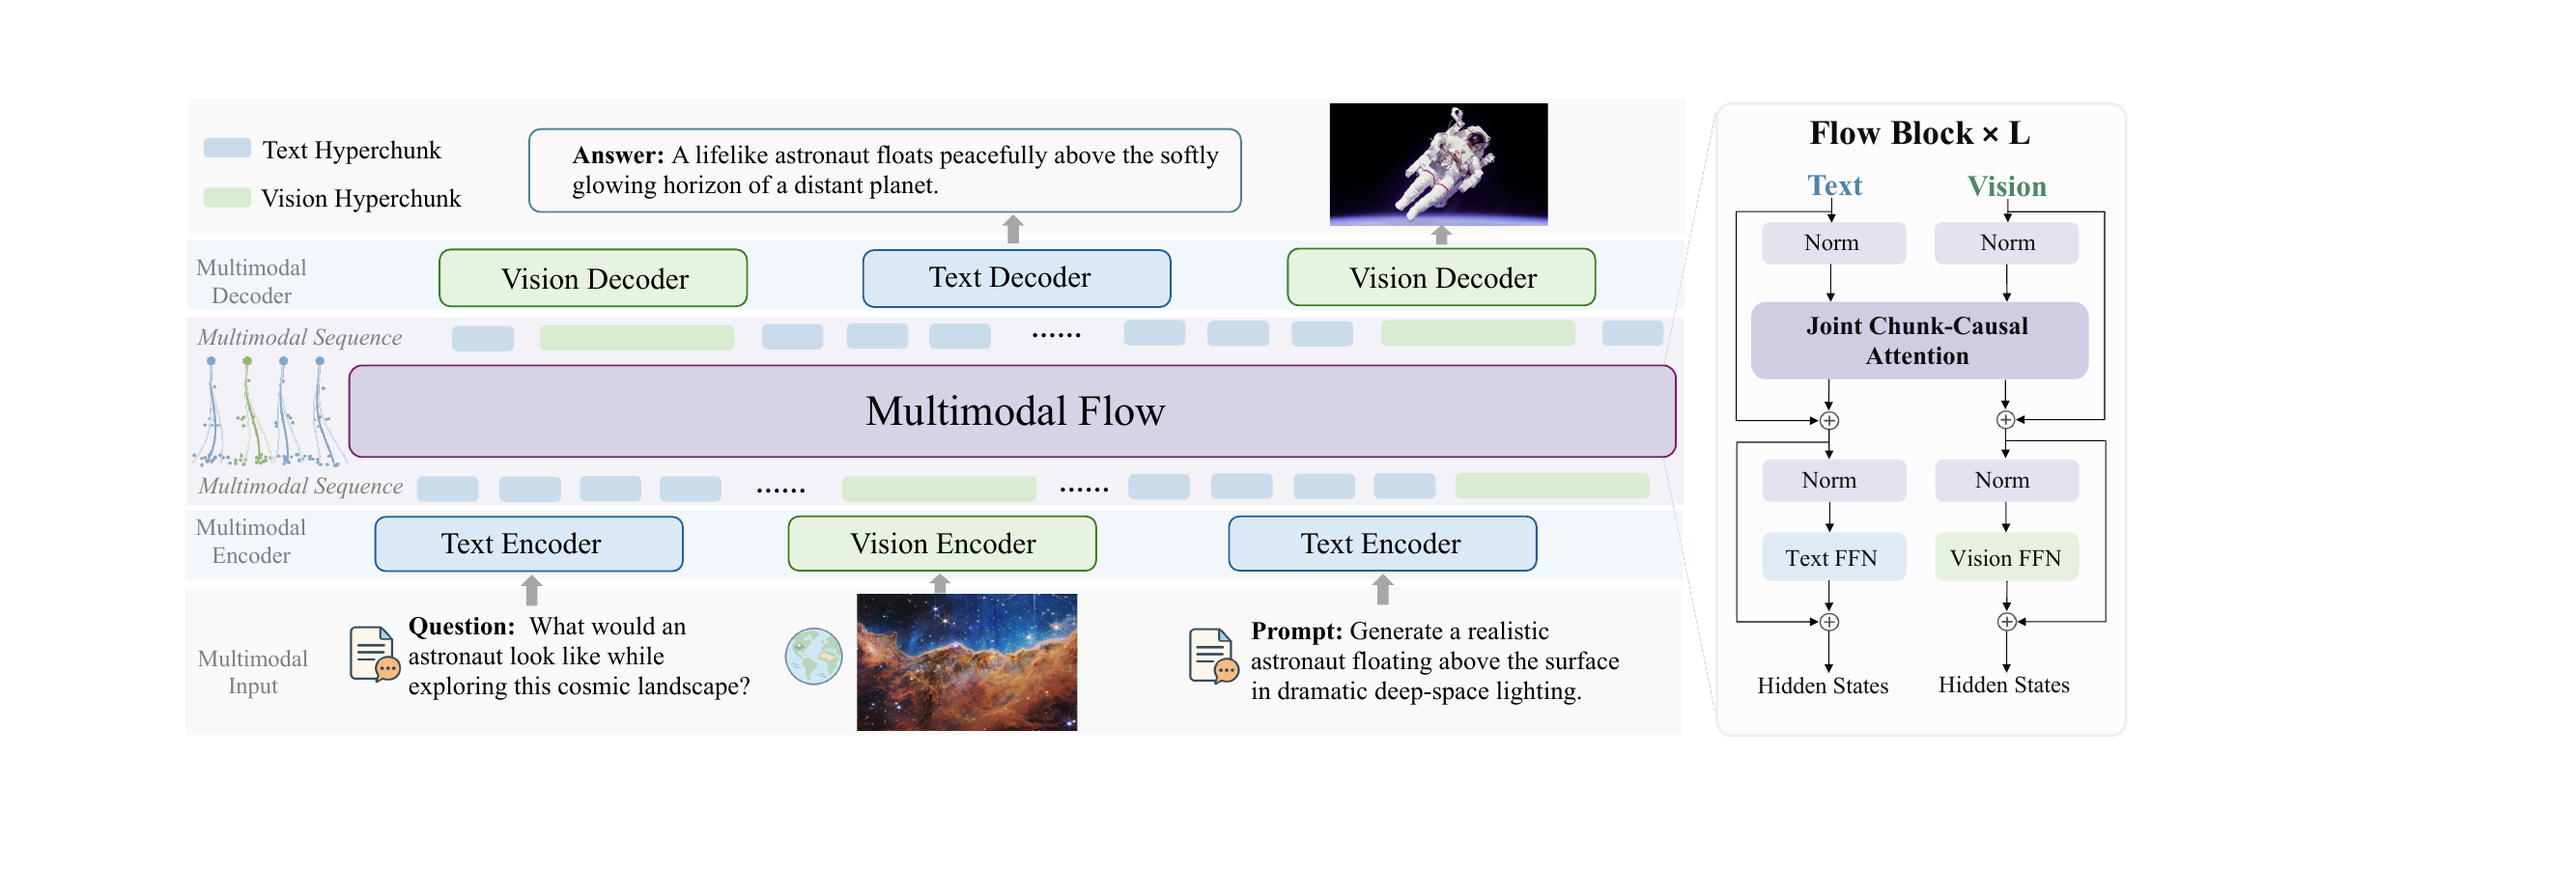
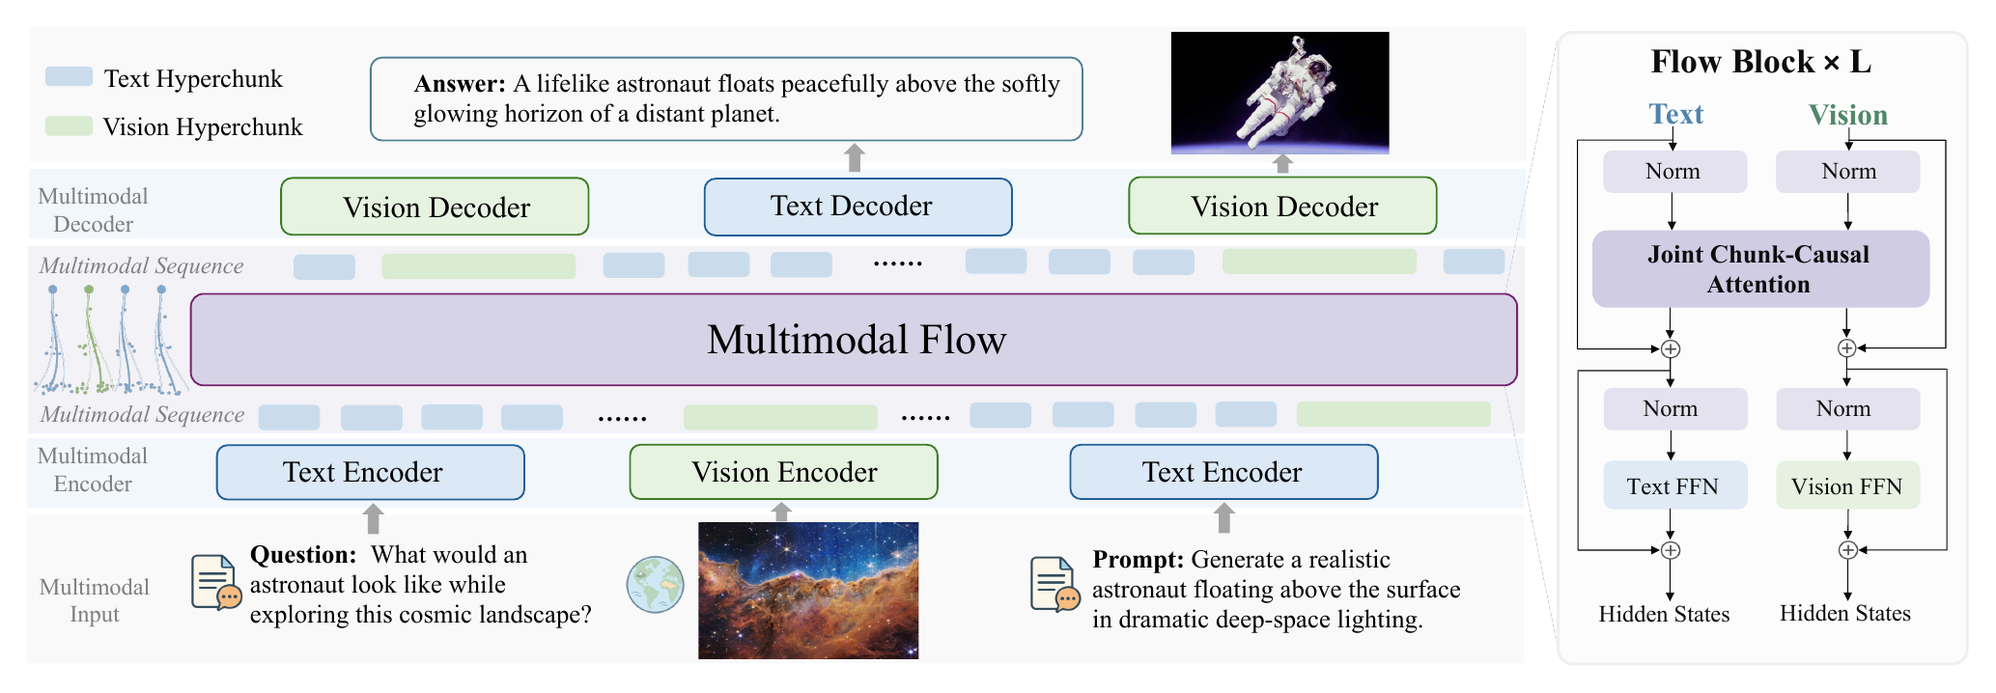
Update README visuals and project assets

diff --git a/README.md b/README.md
@@ -69,15 +69,14 @@ dynamics.
   &nbsp;&nbsp;·&nbsp;&nbsp;
   <font color="#27ae60"><strong>⚙ Configurable recipes</strong></font>
 </p>
-
 <p align="center">
   <img src="docs/assets/multimodal-flow-architecture.png"
-       alt="Multimodal Flow architecture" width="94%">
+       alt="Multimodal Flow architecture" width="100%">
 </p>
+
 
 <p align="center"><em>Different modalities meet in one continuous,
 chunk-causal flow and return to their native spaces through their decoders.</em></p>
-
 During training, an ordered multimodal context is encoded into continuous
 hyperchunks and target chunks are predicted in parallel. During inference,
 completed chunks are generated sequentially and appended to the context. The
@@ -86,8 +85,9 @@ that move between them.
 
 <p align="center">
   <img src="docs/assets/mixed_multimodal_pretraining.png"
-       alt="Multimodal Flow training and inference" width="94%">
+       alt="Multimodal Flow training and inference" width="100%">
 </p>
+
 
 <p align="center"><em>Parallel target prediction during training and
 sequential continuation during inference.</em></p>
